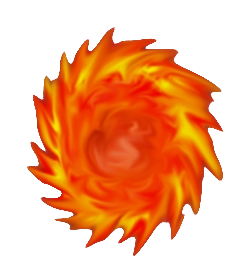
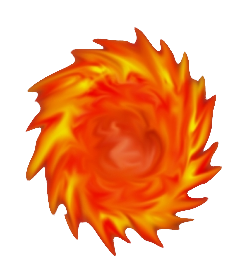
put an effect on a projectile

diff --git a/ChampionFightingGame/Battle.cpp b/ChampionFightingGame/Battle.cpp
@@ -269,6 +269,7 @@ void Battle::process_main() {
 		pre_process_fighter();
 		process_fighter();
 		post_process_fighter();
+		EffectManager::get_instance()->process();
 		process_ui();
 	}
 	for (int i = 0; i < 2; i++) {
@@ -356,8 +357,8 @@ void Battle::process_frame_pause() {
 		pre_process_fighter();
 		process_fighter();
 		post_process_fighter();
+		EffectManager::get_instance()->process();
 		process_ui(); 
-		EffectManager::get_instance()->activate_effect(-1, "flame", glm::vec3(10.0, 1000.0, 0.0), glm::vec3(0.0, 0.0, 90.0), glm::vec3(1.0), glm::vec4(0.0), nullptr, -1, glm::vec3(0.0), glm::vec3(0.0), glm::vec3(0.0), glm::vec4(0.0));
 	}
 	else {
 		for (int i = 0; i < 2; i++) {
@@ -425,14 +426,9 @@ void Battle::render_world() {
 	}
 
 	stage.render();
-
 	glDisable(GL_CULL_FACE);
-}
-
-void Battle::render_ui() {
-	EffectManager::get_instance()->render();
-	for (int i = 0; i < 2; i++) {
-		if (visualize_boxes) {
+	if (visualize_boxes) {
+		for (int i = 0; i < 2; i++) {
 			fighter[i]->jostle_box.render();
 			for (int i2 = 0; i2 < 10; i2++) {
 				if (fighter[i]->hurtboxes[i2].id != -1) {
@@ -458,9 +454,15 @@ void Battle::render_ui() {
 					fighter[i]->grabboxes[i2].rect.render();
 				}
 			}
-			if (fighter[i]->fighter_int[FIGHTER_INT_COMBO_COUNT] > 1) {
-				//Combo Counter text here
-			}
+		}
+	}
+	EffectManager::get_instance()->render();
+}
+
+void Battle::render_ui() {
+	for (int i = 0; i < 2; i++) {
+		if (fighter[i]->fighter_int[FIGHTER_INT_COMBO_COUNT] > 1) {
+			//Combo Counter text here
 		}
 		health_bar[i].render();
 		ex_bar[i].render();

diff --git a/ChampionFightingGame/Animation.cpp b/ChampionFightingGame/Animation.cpp
@@ -17,10 +17,7 @@ Animation::Animation(std::string anim_kind, std::string anim_dir, Model *model) 
 	const aiScene* scene = import.ReadFile(anim_dir, aiProcess_Triangulate);
 
 	if (!scene || !scene->HasAnimations()) {
-		if (model == nullptr) {
-			length = 1;
-		}
-		else if (!scene) {
+		if (!scene) {
 			std::cout << "ERROR::ASSIMP::" << import.GetErrorString() << "\n";
 		}
 		else {
@@ -30,11 +27,6 @@ Animation::Animation(std::string anim_kind, std::string anim_dir, Model *model) 
 	}
 
 	length = scene->mAnimations[0]->mDuration;
-
-	if (model == nullptr) {
-		return;
-	}
-
 	std::vector<AnimBone> base_bones;
 
 	for (int i = 0, max = model->bones.size(); i < max; i++) {
@@ -130,12 +122,18 @@ void AnimationTable::load_animations_no_faf(std::string resource_dir, Model* mod
 	}
 
 	std::string name;
-	std::string path;
+	std::string path_or_length;
 	for (int i = 0; anim_list >> name; i++) {
-		anim_list >> path;
+		anim_list >> path_or_length;
 		name = ymlChopString(name);
-		path = ymlChopString(path);
-		Animation anim(name, resource_dir + "/anims/" + path, model);
+		path_or_length = ymlChopString(path_or_length);
+		Animation anim;
+		if (model == nullptr) {
+			anim.name = name;
+		}
+		else {
+			anim = Animation(name, resource_dir + "/anims/" + path_or_length, model);
+		}
 		animations.push_back(anim);
 		anim_map[name] = i;
 	}

diff --git a/ChampionFightingGame/Effect.cpp b/ChampionFightingGame/Effect.cpp
@@ -123,6 +123,16 @@ EffectInstance::EffectInstance(Effect* effect, glm::vec3 pos, glm::vec3 rot, glm
 	final_rgba = glm::vec4(1.0);
 	this->rate = rate;
 	this->frame = frame;
+	if (battle_object != nullptr) {
+		scale_vec = glm::vec3(
+			WINDOW_WIDTH / (100 * battle_object->scale.x),
+			WINDOW_HEIGHT / (100 * battle_object->scale.y),
+			WINDOW_DEPTH / (100 * battle_object->scale.z)
+		);
+	}
+	else {
+		scale_vec = glm::vec3(0.05);
+	}
 }
 
 bool EffectInstance::process() {
@@ -146,16 +156,16 @@ void EffectInstance::render() {
 	final_rgba = rgba + (rgba_frame * frame);
 	if (battle_object != nullptr) {
 		if (bone_id != -1) {
-			pos += battle_object->get_bone_position(bone_id);
-			rot += battle_object->get_bone_rotation(bone_id);
+			final_pos += battle_object->get_bone_position(bone_id);
+			final_rot += battle_object->get_bone_rotation(bone_id);
 		}
 		else {
-			pos += battle_object->pos;
+			final_pos += battle_object->pos;
 		}
-		rot += battle_object->rot;
+		final_rot += battle_object->rot;
 	}
 	for (int i = 0, max = effect->particles.size(); i < max; i++) {
-		effect->particles[i].render(shader, final_pos, final_rot, final_scale, final_rgba, frame);
+		effect->particles[i].render(shader, final_pos, final_rot, final_scale, final_rgba, scale_vec, frame);
 	}
 	glBindVertexArray(0);
 	glBindBuffer(GL_ARRAY_BUFFER, 0);

diff --git a/ChampionFightingGame/EffectFunctions.cpp b/ChampionFightingGame/EffectFunctions.cpp
@@ -1,0 +1,33 @@
+#include "BattleObject.h"
+#include "EffectManager.h"
+
+void BattleObject::new_effect(std::string name, glm::vec3 pos, glm::vec3 rot, glm::vec3 scale,
+	glm::vec4 rgba, int bone_id, glm::vec3 pos_frame, glm::vec3 rot_frame,
+	glm::vec3 scale_frame, glm::vec4 rgba_frame, float rate, float frame) {
+	pos.x *= facing_dir;
+	pos_frame.x *= facing_dir;
+	if (!facing_right) {
+		rot.x += 180.0;
+	}
+	effect_manager->activate_effect(id, name, pos, rot, scale, rgba, this, bone_id, pos_frame, rot_frame, scale_frame, rgba_frame, rate, frame);
+}
+
+void BattleObject::new_effect_detached(std::string name, glm::vec3 pos, glm::vec3 rot, glm::vec3 scale,
+	glm::vec4 rgba, glm::vec3 pos_frame, glm::vec3 rot_frame,
+	glm::vec3 scale_frame, glm::vec4 rgba_frame, float rate, float frame) {
+	pos.x *= facing_dir;
+	pos_frame.x *= facing_dir;
+	pos += this->pos;
+	if (!facing_right) {
+		rot.x += 180.0;
+	}
+	effect_manager->activate_effect(id, name, pos, rot, scale, rgba, nullptr, -1, pos_frame, rot_frame, scale_frame, rgba_frame, rate, frame);
+}
+
+void BattleObject::clear_effect(std::string name, int instance) {
+	effect_manager->clear_effect(id, name, instance);
+}
+
+void BattleObject::clear_effect_all() {
+	effect_manager->clear_effect_all(id);
+}

diff --git a/ChampionFightingGame/RoyFireball.cpp b/ChampionFightingGame/RoyFireball.cpp
@@ -4,6 +4,7 @@
 RoyFireball::RoyFireball() {}
 
 RoyFireball::RoyFireball(int id, PlayerInfo* player_info) {
+	this->id = id;
 	this->player_info = player_info;
 	this->projectile_kind = PROJECTILE_KIND_ROY_FIREBALL;
 	projectile_name = "roy_fireball";
@@ -52,6 +53,7 @@ void RoyFireball::load_move_scripts() {
 	});
 	script("punched", [this]() {
 		if (is_excute_frame(0)) {
+			new_effect("flame", glm::vec3(0.0, 0.0, 0.0), glm::vec3(0.0, 0.0, 0.0), glm::vec3(1.0), glm::vec4(0.0), -1, glm::vec3(0.0), glm::vec3(0.0), glm::vec3(0.0), glm::vec4(0.0));
 			if (battle_object_manager->fighter[owner_id]->fighter_int[FIGHTER_INT_SPECIAL_LEVEL] == SPECIAL_LEVEL_L) {
 				new_hitbox(0, 0, 30, 5, 1.2, 1, glm::vec2{ -5,35 }, glm::vec2{ 90, 0 }, 15, 30, 10, SITUATION_HIT_GROUND_AIR, 20, 15, 13, 10, false, 10, 10, 1, 4, HIT_STATUS_NORMAL, HIT_STATUS_KNOCKDOWN, COUNTERHIT_TYPE_NONE, 10.0, 0.0, 0.0, 1.0, true, true, false);
 			}
@@ -162,7 +164,7 @@ void RoyFireball::enter_status_roy_fireball_punched() {
 }
 
 void RoyFireball::exit_status_roy_fireball_punched() {
-
+	clear_effect_all();
 }
 
 void RoyFireball::status_roy_fireball_kicked() {

diff --git a/ChampionFightingGame/Particle.cpp b/ChampionFightingGame/Particle.cpp
@@ -101,7 +101,7 @@ void Particle::set_sprite(int index) {
 	glBufferSubData(GL_ARRAY_BUFFER, 0, sizeof(tex_data), tex_data);
 }
 
-void Particle::render(Shader* shader, glm::vec3 pos, glm::vec3 rot, glm::vec3 scale, glm::vec4 rgba, float frame) {
+void Particle::render(Shader* shader, glm::vec3 pos, glm::vec3 rot, glm::vec3 scale,  glm::vec4 rgba, glm::vec3 scale_vec,float frame) {
 	glBindVertexArray(VAO);
 	glBindBuffer(GL_ARRAY_BUFFER, VBO);
 	glBindTexture(GL_TEXTURE_2D, texture);
@@ -112,16 +112,13 @@ void Particle::render(Shader* shader, glm::vec3 pos, glm::vec3 rot, glm::vec3 sc
 	rgba += this->rgba + (rgba_frame * frame);
 	set_sprite((int)frame);
 
-	pos.x /= (float)WINDOW_WIDTH;
-	pos.y /= (float)WINDOW_HEIGHT;
-	pos.z /= (float)WINDOW_DEPTH;
 	rgba.x /= 255.0;
 	rgba.y /= 255.0;
 	rgba.z /= 255.0;
 	rgba.w = (1.0 - (rgba.w / 255.0));
 
 	glm::mat4 matrix = glm::mat4(1.0);
-	matrix = glm::translate(matrix, pos);
+	matrix = glm::translate(matrix, pos / scale_vec);
 	matrix *= glm::orientate4(radians(rot));
 	matrix = glm::scale(matrix, scale);
 	shader->set_mat4("matrix", matrix);

diff --git a/ChampionFightingGame/EffectManager.cpp b/ChampionFightingGame/EffectManager.cpp
@@ -21,15 +21,10 @@ void EffectManager::init() {
 	add_effect_info("flame", "resource/chara/roy/effects/flame/");
 }
 
-//We look at every active effect across all objects. If any of them have been active for their entire duration,
-//remove them. If not, render them.
-void EffectManager::render() {
+void EffectManager::process() {
 	for (int i = 0, max = active_effects.size(); i < max; i++) {
 		for (std::list<EffectInstance>::iterator it = active_effects[i].begin(); it != active_effects[i].end(); it++) {
-			if (it->process()) {
-				it->render();
-			}
-			else {
+			if (!it->process()) {
 				if (active_effects[i].size() != 1) {
 					it = active_effects[i].erase(it);
 				}
@@ -38,6 +33,14 @@ void EffectManager::render() {
 					break;
 				}
 			}
+		}
+	}
+}
+
+void EffectManager::render() {
+	for (int i = 0, max = active_effects.size(); i < max; i++) {
+		for (std::list<EffectInstance>::iterator it = active_effects[i].begin(), max = active_effects[i].end(); it != max; it++) {
+			it->render();
 		}
 	}
 }

diff --git a/ChampionFightingGame/ProjectileInterface.cpp b/ChampionFightingGame/ProjectileInterface.cpp
@@ -14,20 +14,19 @@ ProjectileInterface::ProjectileInterface(int projectile_kind, int id, PlayerInfo
 	switch (projectile_kind) {
 		case (PROJECTILE_KIND_ROY_FIREBALL):
 		default: {
-			projectile = new RoyFireball(id, player_info);
+			projectile = new RoyFireball(10 * (id + 1) + owner->num_projectiles, player_info);
 		}
 		break;
 		case (PROJECTILE_KIND_ERIC_FIREBALL): {
-			projectile = new EricFireball(id, player_info);
+			projectile = new EricFireball(10 * (id + 1) + owner->num_projectiles, player_info);
 		}
 		break;
 		case (PROJECTILE_KIND_PROJECTILE_TEMPLATE): {
-			projectile = new ProjectileTemplate(id, player_info);
+			projectile = new ProjectileTemplate(10 * (id + 1) + owner->num_projectiles, player_info);
 		} break;
 	}
 	projectile->owner = owner;
 	projectile->owner_id = id;
-	projectile->id = 10 * (id + 1) + owner->num_projectiles;
 }
 
 ProjectileInterface::~ProjectileInterface() {}

diff --git a/ChampionFightingGame/BattleObject.h b/ChampionFightingGame/BattleObject.h
@@ -123,6 +123,17 @@ public:
 	void unload_sound(std::string name);
 	void unload_all_sounds();
 
+	void new_effect(std::string name, glm::vec3 pos, glm::vec3 rot, glm::vec3 scale,
+		glm::vec4 rgba, int bone_id, glm::vec3 pos_frame, glm::vec3 rot_frame,
+		glm::vec3 scale_frame, glm::vec4 rgba_frame, float rate = 1.0, float frame = 0.0);
+
+	void new_effect_detached(std::string name, glm::vec3 pos, glm::vec3 rot, glm::vec3 scale,
+		glm::vec4 rgba, glm::vec3 pos_frame, glm::vec3 rot_frame, glm::vec3 scale_frame, 
+		glm::vec4 rgba_frame, float rate = 1.0, float frame = 0.0);
+
+	void clear_effect(std::string name, int instance = 0);
+	void clear_effect_all();
+
 	BattleObjectManager* battle_object_manager;
 	SoundManager* sound_manager;
 	EffectManager* effect_manager;

diff --git a/ChampionFightingGame/Fighter.cpp b/ChampionFightingGame/Fighter.cpp
@@ -86,14 +86,14 @@ void Fighter::process_animate() {
 	}
 
 	attempted_excutes = 0;
+	if (fighter_int[FIGHTER_INT_HITLAG_FRAMES] != 0) {
+		frame += 0.2 / (float)fighter_int[FIGHTER_INT_INIT_HITLAG_FRAMES];
+	}
+	else {
+		frame += rate;
+	}
 
 	if (anim_kind != nullptr) {
-		if (fighter_int[FIGHTER_INT_HITLAG_FRAMES] != 0) {
-			frame += 0.2 / (float)fighter_int[FIGHTER_INT_INIT_HITLAG_FRAMES];
-		}
-		else {
-			frame += rate;
-		}
 		if (frame >= anim_kind->length) {
 			frame = 0.0;
 			excute_count = 0;

diff --git a/ChampionFightingGame/Particle.h b/ChampionFightingGame/Particle.h
@@ -18,7 +18,7 @@ public:
 
 	void load_spritesheet(std::string spritesheet_dir);	
 	
-	void render(Shader* shader, glm::vec3 pos, glm::vec3 rot, glm::vec3 scale, glm::vec4 rgba, float frame = 0);
+	void render(Shader* shader, glm::vec3 pos, glm::vec3 rot, glm::vec3 scale, glm::vec4 rgba, glm::vec3 scale_vec, float frame = 0);
 
 	TextureCoord tex_data[4];
 	TextureCoord* tex_accessor[4];

diff --git a/ChampionFightingGame/Projectile.cpp b/ChampionFightingGame/Projectile.cpp
@@ -41,9 +41,10 @@ void Projectile::process_status() {
 void Projectile::process_animate() {
 	attempted_excutes = 0;
 	
+	frame += rate;
+
 	if (anim_kind != nullptr) {
-		frame += rate;
-		if (frame >= anim_kind->length) {
+		if (frame >= anim_kind->length && anim_kind->length != -1) {
 			frame = 0.0;
 			excute_count = 0;
 			clear_hitbox_all();
